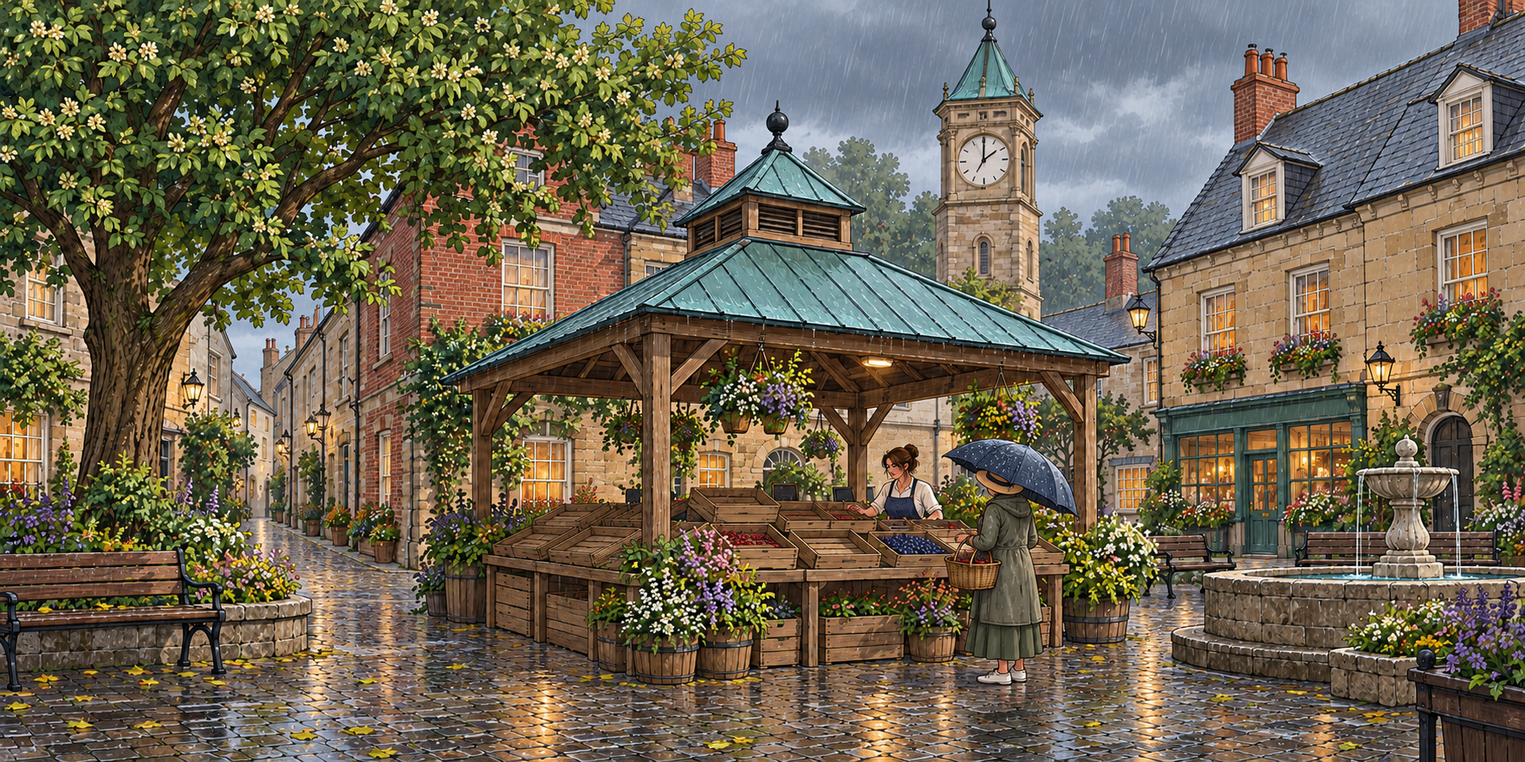
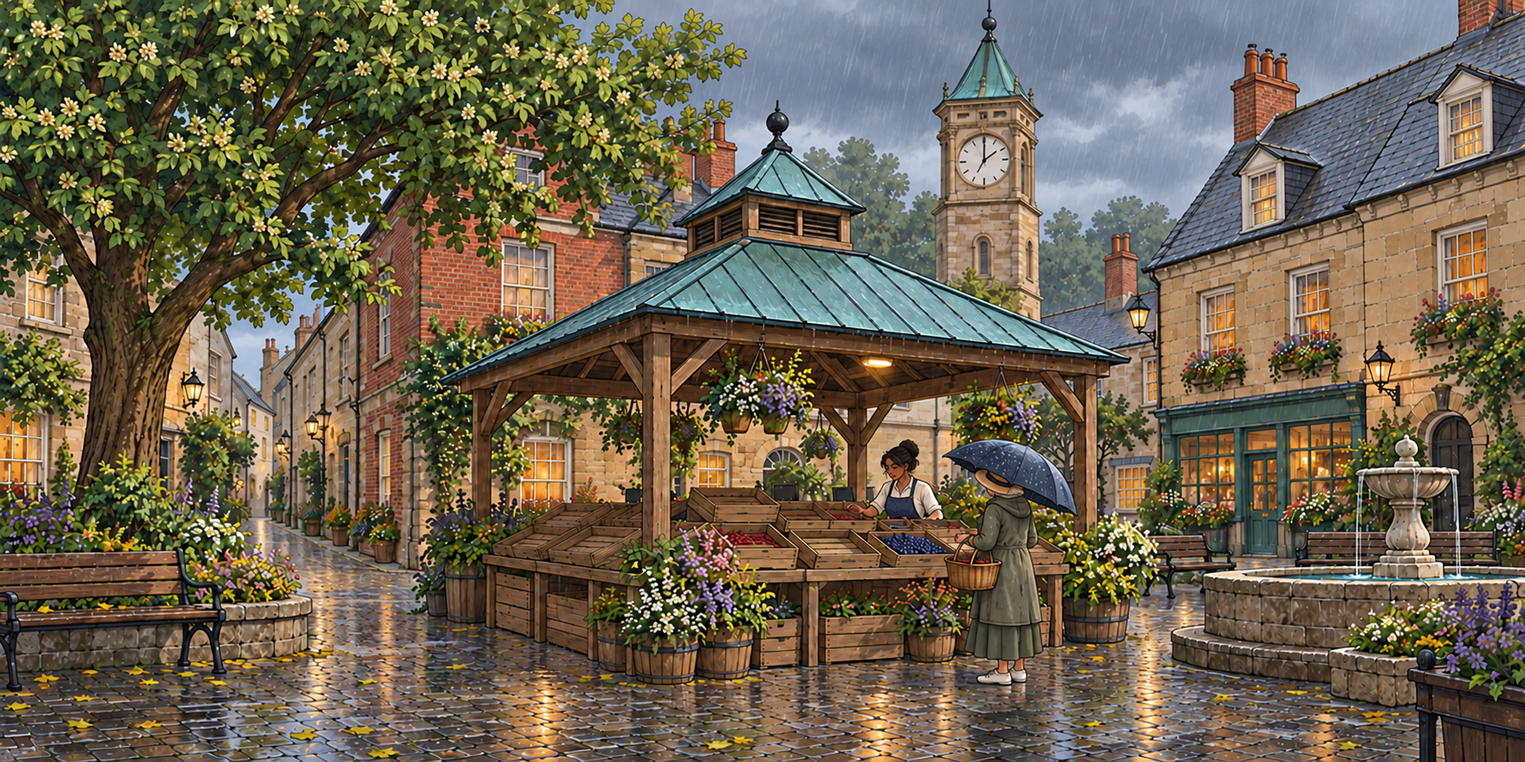
Enlarge the Linden bulletin and diversify its market characters

diff --git a/audit_tools/econ_rpg/game/games/market-shift/styles.css b/audit_tools/econ_rpg/game/games/market-shift/styles.css
@@ -58,14 +58,18 @@ body[data-view=intro] .prototype{margin-left:auto}
 .splash h1{font-size:clamp(5rem,8vw,7.8rem);line-height:.94;letter-spacing:-.055em;margin-bottom:25px}
 .splash-copy>p{color:#f1f5f8;font-size:1.13rem;margin-bottom:30px}
 .splash .quiet{background:#0a2b4ada}
-.bulletin{max-width:1040px;margin:20px auto;background:#fff;color:var(--ink);border-radius:12px;overflow:hidden;box-shadow:0 18px 60px #0003}
-.bulletin-masthead{text-align:center;border-bottom:3px double #8b9ba7;margin:0 32px;padding:24px 0 20px}
+body[data-view=bulletin]{display:flex;flex-direction:column;min-height:100svh}
+body[data-view=bulletin] .masthead{width:100%;margin:0 auto;flex-shrink:0}
+body[data-view=bulletin] main{display:grid;place-items:center;flex:1;width:100%;max-width:1440px;min-height:0;margin:0 auto;padding:24px 28px}
+body[data-view=bulletin] footer{width:calc(100% - 56px);margin:0 auto;flex-shrink:0}
+.bulletin{width:100%;max-width:1320px;margin:0 auto;background:#fff;color:var(--ink);border-radius:12px;overflow:hidden;box-shadow:0 18px 60px #0003}
+.bulletin-masthead{text-align:center;border-bottom:3px double #8b9ba7;margin:0 36px;padding:28px 0 24px}
 .bulletin-masthead p{color:#526777;font-size:.75rem;text-transform:uppercase;letter-spacing:.16em;margin:0 0 9px}
-.bulletin h1{font:400 clamp(2rem,4vw,3.5rem)/1.1 Georgia,serif;letter-spacing:-.035em;margin:0}
-.bulletin-layout{display:grid;grid-template-columns:1.1fr 1fr;gap:30px;align-items:center;padding:32px}
+.bulletin h1{font:400 clamp(2rem,4.6vw,4.5rem)/1.1 Georgia,serif;letter-spacing:-.035em;margin:0}
+.bulletin-layout{display:grid;grid-template-columns:1.4fr 1fr;gap:36px;align-items:center;padding:36px}
 .bulletin .scene-frame{border-color:#b0c4c9;box-shadow:none}
-.bulletin h2{font-size:1.8rem;line-height:1.15;margin:0 0 16px}
-.bulletin article p{color:#40576b;font-size:1.03rem;line-height:1.65;margin-bottom:25px}
+.bulletin h2{font-size:clamp(1.8rem,2.5vw,2.25rem);line-height:1.15;margin:0 0 18px}
+.bulletin article p{color:#40576b;font-size:1.16rem;line-height:1.65;margin-bottom:28px}
 .bulletin button.primary{background:#086d70;border-color:#086d70;color:#fff}
 .bulletin button.primary:hover{background:#095457}
 .bulletin [tabindex]:focus-visible{outline-color:#087b7a}
@@ -79,10 +83,12 @@ body[data-view=intro] .prototype{margin-left:auto}
 .quiz-bulletin .eyebrow{font-size:.65rem;margin-bottom:8px}
 .quiz-bulletin h3{font-size:1.1rem;margin:0 0 8px}
 .quiz-bulletin #quiz-event{font-size:.95rem;line-height:1.6;margin:0;color:#d8e5ef}
+@media(min-width:721px) and (max-width:900px){.bulletin-layout{grid-template-columns:1fr;gap:24px;padding:28px}.bulletin-masthead{margin:0 28px}.bulletin article{max-width:65ch}}
 @media(max-width:720px){
   .splash{min-height:620px;align-items:flex-end}.splash-art{inset:0 0 auto;height:310px}.splash::before{background:linear-gradient(0deg,#0b2d4a 0%,#0b2d4a 48%,#0b2d4a00 80%)}
   .splash-copy{padding:28px 24px}.splash h1{font-size:4.4rem;line-height:.95;margin-bottom:18px}.splash-copy>p{font-size:.92rem;margin-bottom:22px}.splash .actions{gap:10px}.splash button{padding:10px 12px;font-size:.9rem}
-  .bulletin{margin:0}.bulletin-masthead{margin:0 20px;padding:22px 0 18px}.bulletin h1{font-size:2rem}.bulletin-layout{grid-template-columns:1fr;gap:24px;padding:20px}.bulletin h2{font-size:1.65rem}.bulletin article p{font-size:.98rem;margin-bottom:22px}.bulletin button{width:100%}
+  body[data-view=bulletin] main{padding:20px 16px}body[data-view=bulletin] footer{width:calc(100% - 32px)}
+  .bulletin{margin:0}.bulletin-masthead{margin:0 20px;padding:22px 0 18px}.bulletin h1{font-size:2rem}.bulletin-layout{grid-template-columns:1fr;gap:24px;padding:20px}.bulletin h2{font-size:1.65rem}.bulletin article p{font-size:1.03rem;margin-bottom:22px}.bulletin button{width:100%}
   .forecast-brief{gap:15px;margin-bottom:20px}.forecast-brief h2{font-size:1.6rem}.forecast-brief .scene-frame{width:106px}.forecast-brief .quiet{min-height:44px}
   .quiz-bulletin{padding-left:13px;margin-bottom:22px}.quiz-bulletin #quiz-event{font-size:.9rem}
 }

diff --git a/audit_tools/econ_rpg/game/games/market-shift/assets/ART_DIRECTION.md b/audit_tools/econ_rpg/game/games/market-shift/assets/ART_DIRECTION.md
@@ -20,7 +20,7 @@ Final assets are `linden-*.webp` in this folder. They replace the previous set a
 
 Exact shopper and crate counts do not encode model quantities. The base image depicts two customers and a vendor; the base prompt requested three customers. Variants preserve that ordinary attendance or change it to a larger crowd or a single customer. The intended busy/ordinary/quiet comparison is preserved. The artwork does not specify the size of a curve shift.
 
-## Final prompts
+## Setting generation prompts
 
 ### market
 
@@ -74,4 +74,88 @@ Simultaneous increased buyer attendance and storm-reduced harvest: show SIX shop
 
 Use case: precise-object-edit / illustration-story. Edit this exact Linden market illustration into another day in the SAME place. Preserve the exact wide 2:1 dimensions and framing, detailed hand-drawn dark-outline art technique, brick and stone shopfronts, rectangular sash windows, slate roofs, copper-roofed clock tower, teal-roofed timber berry pavilion, linden tree, side lane, fountain, benches, flower boxes, and cobblestone paving. Preserve the vendor woman behind the counter; she is a seller, not one of the shoppers. Keep natural adult proportions and legible separated silhouettes. Change only the conditions below. No captions, letters, logos, price signs, UI or added numerals.
 Simultaneous reduced buyer attendance and storm-reduced harvest: keep only ONE customer, the straw-hatted woman in the blue blouse and long green skirt on the right, now in a muted raincoat or with an umbrella, plus the original woman vendor behind the counter. Remove the man in the green shirt. Most berry crates are visibly empty; only two partly filled crates. Gray rain clouds, fine rain strokes, wet reflective cobblestones and a few fallen leaves. Keep architecture and tree intact. Remain clear and readable rather than very dark. No vehicles or other shoppers.
+
+
+## Character refinement prompts
+
+A subsequent built-in image edit added a modest mix of skin tones, hairstyles, and ages. The ordinary market was updated first. Each other scene then used its existing illustration as the edit target and the updated ordinary market as a character appearance reference. Architecture, composition, customer counts, stock and weather remained the invariants. These are the final edits used in the current assets.
+
+### market
+
+Use case: precise-object-edit.
+Edit this exact illustrated Linden market scene. Change only the people to introduce modest, natural diversity of skin tone and age.
+Keep exactly the same TWO customers and ONE vendor, in the same poses and locations, wearing the same everyday clothing. The woman vendor behind the counter now has deep brown skin and black curly hair gathered into a bun. The man customer at the left in the olive shirt and blue jeans now has medium brown skin and short black hair. The woman customer at the right in the blue blouse, green skirt and straw hat is now visibly older, around her sixties, with a little silver hair showing beneath the hat. Use subtle, natural facial features in the existing illustration technique; no caricature.
+Preserve the exact 1774 by 887 wide composition, hand-drawn outlines, warm coloring, architecture, clock tower, teal pavilion roof, tree, fountain, flowers, paving, moderate berry stock, lighting and sunny weather. Do not add or remove people, change the setting, or add symbols, flags, lettering or text.
+
+### busy
+
+Use case: precise-object-edit.
+Image 1 is the EDIT TARGET: keep its exact setting, weather, berry-stock level, crowd count, outfits, poses and framing.
+Image 2 is a CHARACTER APPEARANCE REFERENCE only: use it to update the recurring people in image 1.
+Change only people's skin tones, hair and subtle age details. Match the vendor behind the counter to the deep-brown-skinned woman with black curly hair in a bun in image 2. If present, match the olive-shirted male customer to the medium-brown-skinned man with short black hair in image 2. Match the blue-bloused, green-skirted, straw-hatted woman customer to the older woman with silver hair beneath her hat in image 2. Retain the target's raincoats, umbrellas or other weather clothing as applicable. Preserve hand-drawn outlines, natural facial features, warm colors, exact 1774 by 887 dimensions, clock tower, pavilion, tree, fountain, all architecture, paving and plant details. Do not add/remove people or change any market conditions. No caricature, text, symbols, flags or UI.
+For the four additional shoppers, introduce a natural mix of complexions and ages: the pink-dressed woman has East Asian features and straight black hair; the man in a light shirt and cap has deep brown skin and a neat dark beard; the central blue-shirted man has some gray hair. Keep the exact six customers and one vendor.
+
+### quiet
+
+Use case: precise-object-edit.
+Image 1 is the EDIT TARGET: keep its exact setting, weather, berry-stock level, crowd count, outfits, poses and framing.
+Image 2 is a CHARACTER APPEARANCE REFERENCE only: use it to update the recurring people in image 1.
+Change only people's skin tones, hair and subtle age details. Match the vendor behind the counter to the deep-brown-skinned woman with black curly hair in a bun in image 2. If present, match the olive-shirted male customer to the medium-brown-skinned man with short black hair in image 2. Match the blue-bloused, green-skirted, straw-hatted woman customer to the older woman with silver hair beneath her hat in image 2. Retain the target's raincoats, umbrellas or other weather clothing as applicable. Preserve hand-drawn outlines, natural facial features, warm colors, exact 1774 by 887 dimensions, clock tower, pavilion, tree, fountain, all architecture, paving and plant details. Do not add/remove people or change any market conditions. No caricature, text, symbols, flags or UI.
+Keep the target's ONE customer plus the vendor. Only adjust their appearance to match image 2. Preserve the quiet square and ordinary berry stock.
+
+### storm
+
+Use case: precise-object-edit.
+Image 1 is the EDIT TARGET: keep its exact setting, weather, berry-stock level, crowd count, outfits, poses and framing.
+Image 2 is a CHARACTER APPEARANCE REFERENCE only: use it to update the recurring people in image 1.
+Change only people's skin tones, hair and subtle age details. Match the vendor behind the counter to the deep-brown-skinned woman with black curly hair in a bun in image 2. If present, match the olive-shirted male customer to the medium-brown-skinned man with short black hair in image 2. Match the blue-bloused, green-skirted, straw-hatted woman customer to the older woman with silver hair beneath her hat in image 2. Retain the target's raincoats, umbrellas or other weather clothing as applicable. Preserve hand-drawn outlines, natural facial features, warm colors, exact 1774 by 887 dimensions, clock tower, pavilion, tree, fountain, all architecture, paving and plant details. Do not add/remove people or change any market conditions. No caricature, text, symbols, flags or UI.
+Keep the target's TWO shopping customers plus the vendor. Preserve its sparse berry crates, rain, umbrellas and wet paving; change only those people's appearance to match image 2.
+
+### harvest
+
+Use case: precise-object-edit.
+Image 1 is the EDIT TARGET: keep its exact setting, weather, berry-stock level, crowd count, outfits, poses and framing.
+Image 2 is a CHARACTER APPEARANCE REFERENCE only: use it to update the recurring people in image 1.
+Change only people's skin tones, hair and subtle age details. Match the vendor behind the counter to the deep-brown-skinned woman with black curly hair in a bun in image 2. If present, match the olive-shirted male customer to the medium-brown-skinned man with short black hair in image 2. Match the blue-bloused, green-skirted, straw-hatted woman customer to the older woman with silver hair beneath her hat in image 2. Retain the target's raincoats, umbrellas or other weather clothing as applicable. Preserve hand-drawn outlines, natural facial features, warm colors, exact 1774 by 887 dimensions, clock tower, pavilion, tree, fountain, all architecture, paving and plant details. Do not add/remove people or change any market conditions. No caricature, text, symbols, flags or UI.
+Keep the target's TWO shopping customers and vendor, its overflowing harvest crates and sunny sky. Only update the three recurring characters to match image 2.
+
+### delivery
+
+Use case: precise-object-edit.
+Image 1 is the EDIT TARGET: keep its exact setting, weather, berry-stock level, crowd count, outfits, poses and framing.
+Image 2 is a CHARACTER APPEARANCE REFERENCE only: use it to update the recurring people in image 1.
+Change only people's skin tones, hair and subtle age details. Match the vendor behind the counter to the deep-brown-skinned woman with black curly hair in a bun in image 2. If present, match the olive-shirted male customer to the medium-brown-skinned man with short black hair in image 2. Match the blue-bloused, green-skirted, straw-hatted woman customer to the older woman with silver hair beneath her hat in image 2. Retain the target's raincoats, umbrellas or other weather clothing as applicable. Preserve hand-drawn outlines, natural facial features, warm colors, exact 1774 by 887 dimensions, clock tower, pavilion, tree, fountain, all architecture, paving and plant details. Do not add/remove people or change any market conditions. No caricature, text, symbols, flags or UI.
+Keep the target's TWO shopping customers, vendor and ONE delivery worker, plus its van, trolley, insulated boxes and normal berry stock. Update the recurring three characters to match image 2. Give the delivery worker a medium tan complexion. Preserve the driver's uniform, task and position.
+
+### busy-harvest
+
+Use case: precise-object-edit.
+Image 1 is the EDIT TARGET: keep its exact setting, weather, berry-stock level, crowd count, outfits, poses and framing.
+Image 2 is a CHARACTER APPEARANCE REFERENCE only: use it to update the recurring people in image 1.
+Change only people's skin tones, hair and subtle age details. Match the vendor behind the counter to the deep-brown-skinned woman with black curly hair in a bun in image 2. If present, match the olive-shirted male customer to the medium-brown-skinned man with short black hair in image 2. Match the blue-bloused, green-skirted, straw-hatted woman customer to the older woman with silver hair beneath her hat in image 2. Retain the target's raincoats, umbrellas or other weather clothing as applicable. Preserve hand-drawn outlines, natural facial features, warm colors, exact 1774 by 887 dimensions, clock tower, pavilion, tree, fountain, all architecture, paving and plant details. Do not add/remove people or change any market conditions. No caricature, text, symbols, flags or UI.
+Keep the SIX shopping customers plus vendor and the abundant berry stock. Update the recurring characters to match image 2. Among the additional four shoppers, the woman in the blue patterned dress has East Asian features and straight black hair, the man in the light shirt and cap has deep brown skin, and the central woman in lavender is older with silver hair. Preserve clothes, poses and existing locations.
+
+### quiet-harvest
+
+Use case: precise-object-edit.
+Image 1 is the EDIT TARGET: keep its exact setting, weather, berry-stock level, crowd count, outfits, poses and framing.
+Image 2 is a CHARACTER APPEARANCE REFERENCE only: use it to update the recurring people in image 1.
+Change only people's skin tones, hair and subtle age details. Match the vendor behind the counter to the deep-brown-skinned woman with black curly hair in a bun in image 2. If present, match the olive-shirted male customer to the medium-brown-skinned man with short black hair in image 2. Match the blue-bloused, green-skirted, straw-hatted woman customer to the older woman with silver hair beneath her hat in image 2. Retain the target's raincoats, umbrellas or other weather clothing as applicable. Preserve hand-drawn outlines, natural facial features, warm colors, exact 1774 by 887 dimensions, clock tower, pavilion, tree, fountain, all architecture, paving and plant details. Do not add/remove people or change any market conditions. No caricature, text, symbols, flags or UI.
+Keep only the target's ONE customer plus the vendor, surrounded by abundant berry stock. Match the older straw-hatted customer and deep-brown-skinned vendor to image 2, preserving all clothing and poses.
+
+### busy-storm
+
+Use case: precise-object-edit.
+Image 1 is the EDIT TARGET: keep its exact setting, weather, berry-stock level, crowd count, outfits, poses and framing.
+Image 2 is a CHARACTER APPEARANCE REFERENCE only: use it to update the recurring people in image 1.
+Change only people's skin tones, hair and subtle age details. Match the vendor behind the counter to the deep-brown-skinned woman with black curly hair in a bun in image 2. If present, match the olive-shirted male customer to the medium-brown-skinned man with short black hair in image 2. Match the blue-bloused, green-skirted, straw-hatted woman customer to the older woman with silver hair beneath her hat in image 2. Retain the target's raincoats, umbrellas or other weather clothing as applicable. Preserve hand-drawn outlines, natural facial features, warm colors, exact 1774 by 887 dimensions, clock tower, pavilion, tree, fountain, all architecture, paving and plant details. Do not add/remove people or change any market conditions. No caricature, text, symbols, flags or UI.
+Keep the target's SIX shopping customers plus the vendor, its raincoats, umbrellas, rain and mostly empty crates. Match the recurring characters to image 2. Give the rightmost burgundy-coated customer a deep brown complexion, and introduce a little silver hair and a mix of light and medium skin tones among other additional shoppers. Keep the crowd count, weather outfits and positions.
+
+### quiet-storm
+
+Use case: precise-object-edit.
+Image 1 is the EDIT TARGET: keep its exact setting, weather, berry-stock level, crowd count, outfits, poses and framing.
+Image 2 is a CHARACTER APPEARANCE REFERENCE only: use it to update the recurring people in image 1.
+Change only people's skin tones, hair and subtle age details. Match the vendor behind the counter to the deep-brown-skinned woman with black curly hair in a bun in image 2. If present, match the olive-shirted male customer to the medium-brown-skinned man with short black hair in image 2. Match the blue-bloused, green-skirted, straw-hatted woman customer to the older woman with silver hair beneath her hat in image 2. Retain the target's raincoats, umbrellas or other weather clothing as applicable. Preserve hand-drawn outlines, natural facial features, warm colors, exact 1774 by 887 dimensions, clock tower, pavilion, tree, fountain, all architecture, paving and plant details. Do not add/remove people or change any market conditions. No caricature, text, symbols, flags or UI.
+Keep only the target's ONE customer plus the vendor. Match the older straw-hatted customer and deep-brown-skinned vendor to image 2, preserving the customer's raincoat and umbrella, mostly empty crates and rain.
 

diff --git a/audit_tools/econ_rpg/game/games/market-shift/README.md b/audit_tools/econ_rpg/game/games/market-shift/README.md
@@ -24,7 +24,7 @@ The illustrated splash shows the game title and entry choices once, without a re
 
 There are four authored stories per shift family and three numerical variants per policy type: **16 shift stories plus 6 price-control variants**. The first policy type is randomly selected. Play new scenarios excludes each immediately preceding shift story and alternates ceiling/floor. A saved seed, scenario IDs, and quiz answer order keep the same run stable across reloads. Each mission starts with the original market.
 
-The mission strip uses short story titles, such as **Festival day** and **Storm watch**, instead of announcing the curve type. Each new mission opens its bulletin before the forecast board. The board keeps a short headline, the changing market illustration, graph, and compact controls. **Read bulletin** reopens the event without changing attempts or hints. Optional operating instructions and click-placement tools live inside **Graph help**. Economic hints remain a separate, recorded action.
+The mission strip uses short story titles, such as **Festival day** and **Storm watch**, instead of announcing the curve type. Each new mission opens its bulletin before the forecast board. The bulletin uses a wider paper with a larger illustration and story text, centered between the navigation and footer; on tablets and phones the image and story stack. The board keeps a short headline, the changing market illustration, graph, and compact controls. **Read bulletin** reopens the event without changing attempts or hints. Optional operating instructions and click-placement tools live inside **Graph help**. Economic hints remain a separate, recorded action.
 
 Drag a curve or its D/S handle horizontally. Drag E₁ to place the forecast equilibrium, the purple label to change the legal price, or Qs/Qd to read quantities. Native range and number controls offer the same actions with a keyboard. Sliders show a signed displacement, without repeated left/right labels; screen readers receive explicit direction descriptions. Picking up an offset label does not jump its value. A selected click-placement tool can place a marker directly on a curve intersection.
 
@@ -56,7 +56,7 @@ The simulation does not model rationing rules, black markets, product-quality ch
 
 ## Linden artwork
 
-Ten illustrations share Linden's own civic market square: brick and stone shops, slate roofs, a copper-roofed clock tower, a teal-roofed timber pavilion, a linden tree, and a stone fountain. Warm colors, fine outlines, detailed plants, and naturally proportioned people retain the inviting adventure-game feel. Busy and quiet crowds, storms, abundant stock, and deliveries reflect the news; the vendor remains distinct from the shopping customers. Combined scenes keep both visual cues for simultaneous changes. The splash, bulletin, and forecast thumbnail use this artwork; price-control signs remain live text with the mission's actual legal price.
+Ten illustrations share Linden's own civic market square: brick and stone shops, slate roofs, a copper-roofed clock tower, a teal-roofed timber pavilion, a linden tree, and a stone fountain. Warm colors, fine outlines, detailed plants, and naturally proportioned people retain the inviting adventure-game feel. The recurring vendor and shoppers include a mix of skin tones, hairstyles, and ages. Busy and quiet crowds, storms, abundant stock, and deliveries reflect the news; the vendor remains distinct from the shopping customers. Combined scenes keep both visual cues for simultaneous changes. The splash, bulletin, and forecast thumbnail use this artwork; price-control signs remain live text with the mission's actual legal price.
 
 The illustrations were made with built-in image generation. The original references informed the broad illustration technique; this replacement setting was generated from a written brief, and all variants use that new base image. They are stored locally as lossless WebP assets, with decoded pixels verified against the generated originals. There are no remote image dependencies. The economic graph remains crisp white SVG. See [art direction and full prompts](assets/ART_DIRECTION.md) for asset provenance and scene mapping.
 
@@ -75,7 +75,9 @@ node audit_tools/econ_rpg/game/games/market-shift/browser.test.cjs
 
 The browser test uses Edge via Playwright. Set `MQ_PLAYWRIGHT_MODULE` to an installed Playwright package if needed, and optionally `MQ_AXE_MODULE` to `axe-core/axe.min.js`. It starts and closes its own temporary server and blocks external requests. The accessibility scanner is served through an intercepted same-origin test URL; runtime CSP remains intact.
 
-Verification includes **12 model tests and 8 end-to-end browser scenarios**. The model suite passed before this artwork-only update; the browser suite was rerun after integration. Coverage includes all 22 scenario variants; unequal simultaneous shifts and ambiguous outcomes; policy quantities and nonbinding rules; repeat avoidance and alternating policies; corrupt saves; bulletin state and compatibility with earlier v2 saves; splash-to-bulletin-to-forecast progression; reopening the bulletin without changing evidence; mouse dragging and live fields before pointer release; keyboard graph controls; both full five-mission routes; quiz context matching every played event; retries, reload, and randomized answer order; evidence export; exploration isolation; 390px layout; coincident quantity labels and extreme prices; all ten illustrations loading with descriptive alternatives and live ceiling/floor labels; and mobile touch dragging. No browser runtime errors occurred. Axe WCAG 2 A/AA and 2.1 AA checks found zero violations across ten views. Desktop and mobile screenshots were visually inspected. Local artifacts are in ignored `tmp/market-shift/` (latest screenshots use the `art-` prefix).
+Verification includes **12 model tests and 8 end-to-end browser scenarios**. The model suite passed before this presentation update; the browser suite was rerun after integration. Coverage includes all 22 scenario variants; unequal simultaneous shifts and ambiguous outcomes; policy quantities and nonbinding rules; repeat avoidance and alternating policies; corrupt saves; bulletin state and compatibility with earlier v2 saves; splash-to-bulletin-to-forecast progression; reopening the bulletin without changing evidence; mouse dragging and live fields before pointer release; keyboard graph controls; both full five-mission routes; quiz context matching every played event; retries, reload, and randomized answer order; evidence export; exploration isolation; 390px layout; coincident quantity labels and extreme prices; all ten illustrations loading with descriptive alternatives and live ceiling/floor labels; and mobile touch dragging. No browser runtime errors occurred. Axe WCAG 2 A/AA and 2.1 AA checks found zero violations across ten views. Desktop and mobile screenshots were visually inspected. Local artifacts are in ignored `tmp/market-shift/` (latest screenshots use the `art-` prefix).
+
+The enlarged bulletin was also inspected at 1440, 1366, 820, 390, and 320px viewport widths. Its top and bottom spacing matched within the available area, with no horizontal overflow. On short screens it grows the document instead of clipping the story or action. Layout screenshots and measurements use the `bulletin-layout-` prefix in the same ignored artifact folder.
 
 Remaining: faculty/student playtesting, screen-reader task testing, physical phones, and other browsers. Existing games' suites were not rerun because their source and shared files were not modified. Technical verification does not establish learning effectiveness.
 
